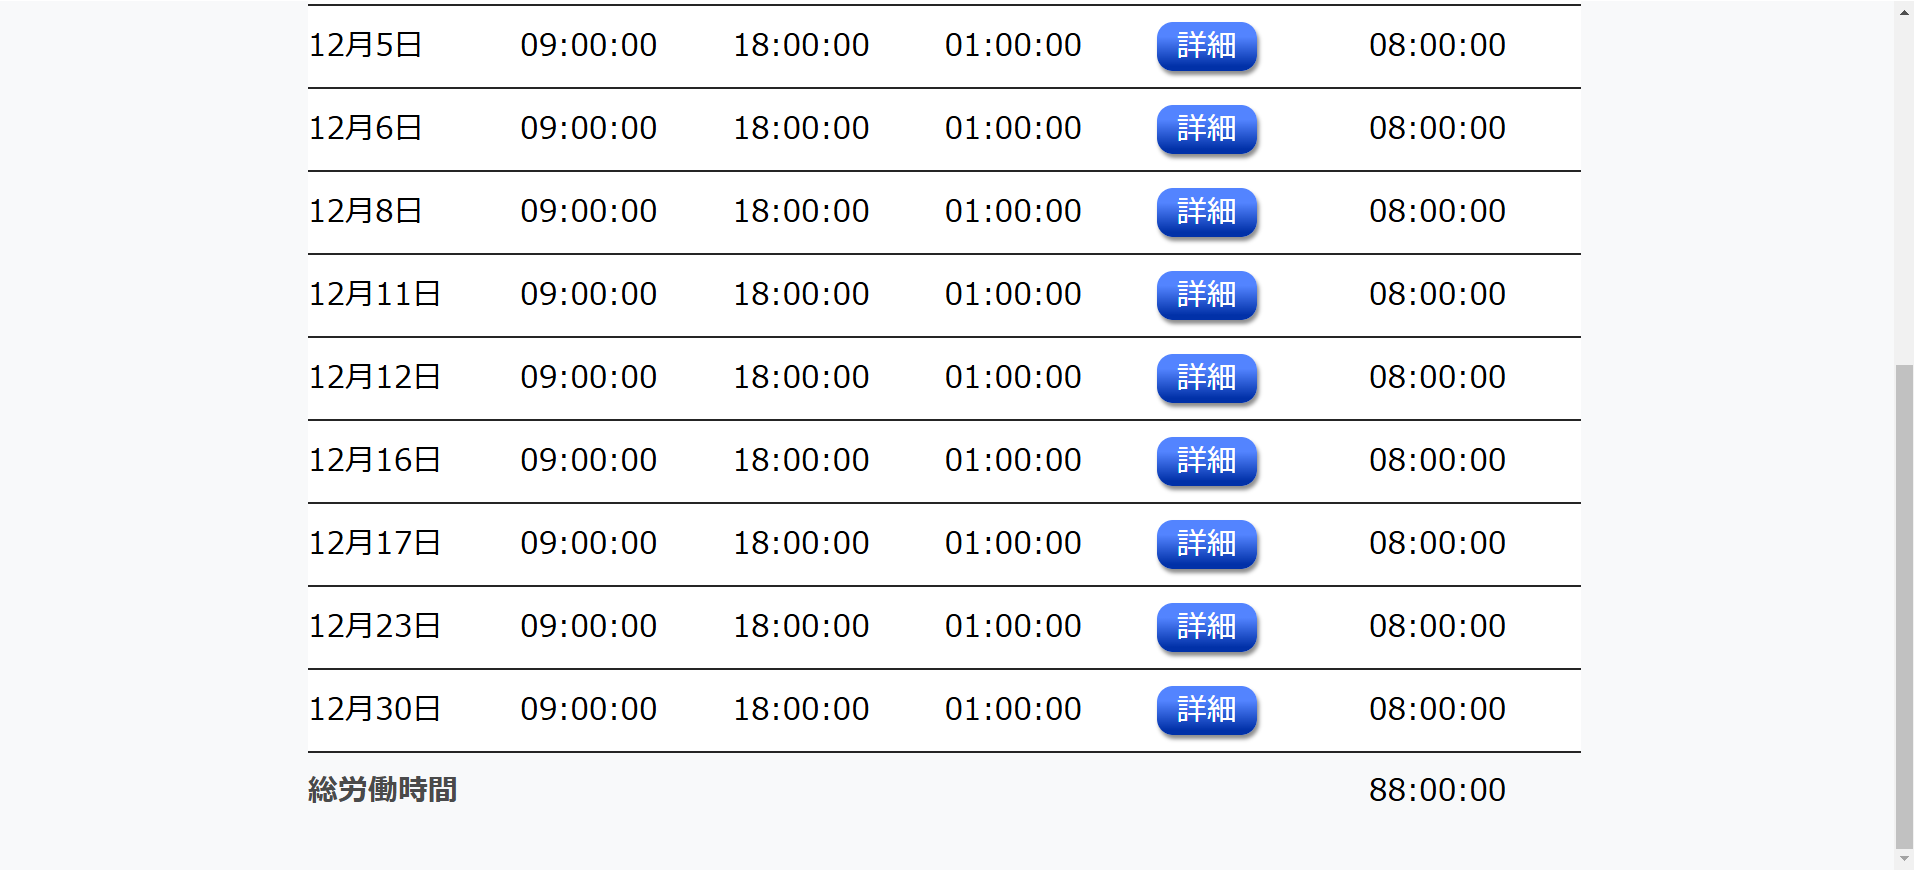
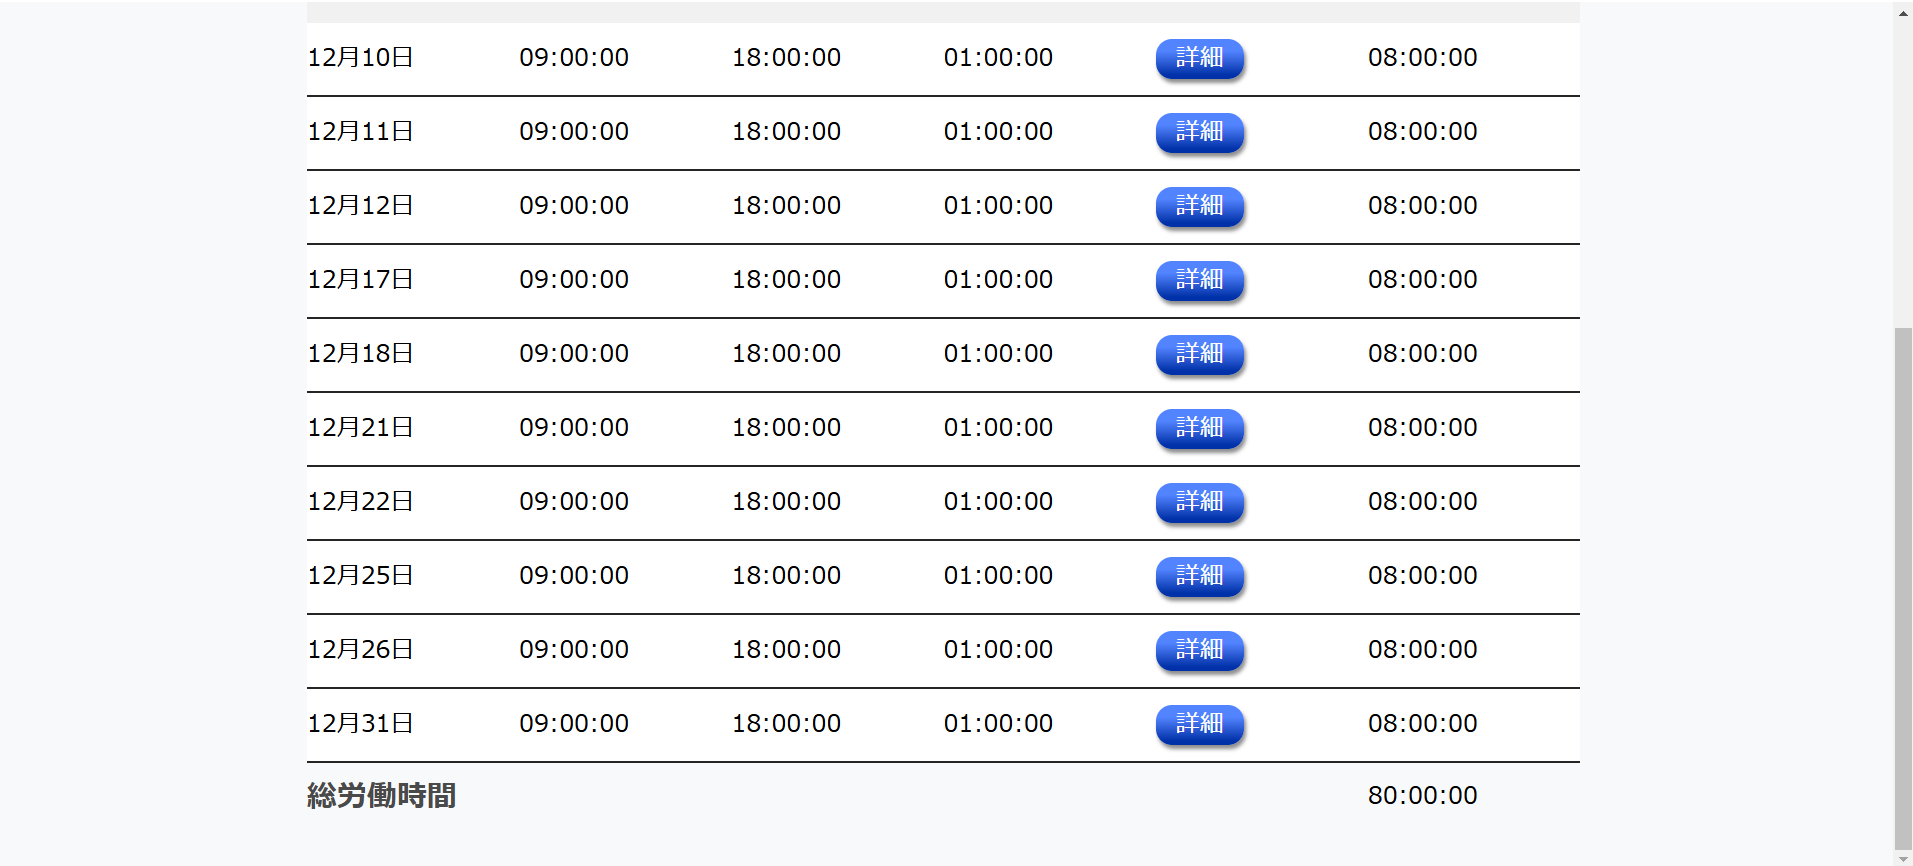
READMEの画像差し替え及び追加、内容修正

diff --git a/README.md b/README.md
@@ -17,11 +17,17 @@ https://github.com/basstuba/ams
 
 ## 作成した目的
 
-私が日本で働いていた時の勤怠管理の実務経験を踏まえ、どの年代のユーザーでも使いやすいシンプルな打刻画面と勤怠を管理するにあたって必要な機能を揃えた管理画面を持つ勤怠管理アプリを作成したいと思い作成しました。
+どなたでも簡単に操作できる勤怠管理アプリを提供したいという思いで作成しました。
+
+私が日本で働いていた時の勤怠管理の実務経験を踏まえ下記の2点を意識して作成しました。
+
+- どの年代のユーザーでも使いやすいシンプルな打刻画面
+
+- 管理者が簡単に扱え尚且つ管理に必要な機能を揃えた管理画面
 
 ## 機能一覧
 
-- アカウント作成機能
+### ユーザーが利用可能な機能
 
 - ログイン及びログアウト機能
 
@@ -29,11 +35,25 @@ https://github.com/basstuba/ams
 
    （出勤、退勤、休憩開始、休憩終了）
 
+### 管理者が利用可能な機能
+
+- ユーザーアカウント作成機能
+
+- ユーザーアカウント情報変更機能
+
+- インポート機能
+
+   （ユーザーデータを一括登録）
+
 - 日付別勤怠一覧表示機能
 
 - 個人別勤怠一覧表示機能
 
+- ユーザーアカウント一覧表示機能
+
 - ユーザーアカウント検索機能
+
+- 勤怠データ検索機能
 
 - ページネーション機能
 
@@ -51,9 +71,9 @@ https://github.com/basstuba/ams
 
 | 言語・フレームワーク・その他使用技術 | バージョン |
 | ------------------ | ----------|
-| Nuxt               | 2.18.1    |
+| Nuxt.js            | 2.18.1    |
 | Node.js            | 20.17.0   |
-| vue                | 2.7.10    |
+| vue.js             | 2.7.10    |
 | yarn               | 1.22.22   |
 | HTML               |           |
 | CSS                |           |
@@ -79,40 +99,48 @@ https://github.com/basstuba/ams
    にてアプリケーションのディレクトリへ移動。
 
 2. yarnをインストール
+
+   アプリケーションのディレクトリにて
    ```
    yarn install
    ```
    を実行。
 
 3. ローカルサーバーを起動
+
+   アプリケーションのディレクトリにて
    ```
    yarn dev
    ```
    を実行。
 
-**フロントエンドの環境構築は以上になります。バックエンドの環境構築が完了してDockerが起動しているのを確認後、下記のURLにアクセスするとアプリケーションをご利用いただけます。**
+**フロントエンドの環境構築は以上になります。バックエンドの環境構築が完了してDockerのamsコンテナが起動しているのを確認後、下記のURLにアクセスするとアプリケーションをご利用いただけます。**
 
 ## アプリケーション URL
 
 http://localhost:3000
 
-## 各種機能について
-
-### 新規登録画面
-
-![新規登録画面](readme_image/AmsRegisterPage.png)
-
-#### アカウント作成機能
-
-- お名前、メールアドレス、パスワードを入力し登録ボタンを押して作成します。
+## 各画面の機能について
 
 ### ログイン画面
 
 ![ログイン画面](readme_image/AmsLoginpage.png)
 
+> [!IMPORTANT]
+> **テスト用ユーザーアカウントの詳細は下記の通りです。**
+> - email :
+>   ```
+>   fdsa@fdsa.com
+>   ```
+> - password :
+>   ```
+>   fdsafdsa
+>   ```
+
 #### ログイン及びログアウト機能
 
-- メールアドレス、パスワードを入力しログインボタンを押してログインします。
+- メールアドレス・パスワードを入力しログインボタンを押してログインしてください。
+
 - ログイン後トップページ及び管理画面の右上にある**ログアウト**を押すとログアウトします。
 
 ### トップページ
@@ -124,7 +152,9 @@ http://localhost:3000
 #### 打刻機能
 
 - 勤務開始ボタンをクリックすると休憩開始ボタンと勤務終了ボタンが表示されます。休憩開始ボタンをクリックすると休憩終了ボタンが表示されます。
+
 - 勤務時間は一日に複数回の入力が可能です。早朝勤務して退勤後、夜間再度勤務のような変則勤務も対応可能です。
+
 - 休憩時間も一日に複数回の入力が可能です。拘束時間が長く休憩が複数回ある場合でも対応可能です。
 
 ### 管理画面
@@ -144,17 +174,43 @@ http://localhost:3000
 >   adminadmin
 >   ```
 
-- 下記の機能は管理画面の各ページよりご利用いただけます。
+管理画面の各ページより各機能をご利用いただけます。
 
-| 機能        | ページ     |
-| ------------------------ | ----------------------------------- |
-| 日付別勤怠一覧表示機能     | 日付別勤怠一覧                        |
-| 個人別勤怠一覧表示機能     | 個人別勤怠一覧の勤怠確認               |
-| ユーザーアカウント検索機能 | 個人別勤怠一覧                        |
-| ページネーション機能       | 個人別勤怠一覧                        |
-| エクスポート機能          | 日付別勤怠一覧と個人別勤怠一覧の勤怠確認 |
-| 打刻修正機能              | 個人別勤怠一覧の勤怠修正               |
-| 打刻追加機能              | 個人別勤怠一覧の勤怠追加               |
+- 日付別勤怠一覧ページ
+
+   - 日付別勤怠一覧表示機能
+
+   - エクスポート機能
+
+   - 勤怠データ検索機能
+
+- 個人別勤怠一覧ページ
+
+   - ユーザーアカウント一覧表示機能
+
+   - ユーザーアカウント検索機能
+
+   - 個人別勤怠一覧表示機能
+
+   - 勤怠データ検索機能
+
+   - 打刻修正機能
+
+   - 打刻追加機能
+
+   - エクスポート機能
+
+   - ページネーション機能
+
+- 従業員登録ページ
+
+   - ユーザーアカウント作成機能
+
+   - インポート機能
+
+- 従業員情報変更ページ
+
+   - ユーザーアカウント情報変更機能
 
 ### 日付別勤怠一覧ページ
 
@@ -163,19 +219,30 @@ http://localhost:3000
 #### 日付別勤怠一覧表示機能
 
 - 日付別勤怠一覧ページで日付別勤怠を表示します。デフォルトの日付は前日の日付となっています。
+
 - 日付の左にある矢印をクリックすると前日、右にある矢印をクリックすると翌日が表示されます。
 
 #### エクスポート機能
 
-- 日付別勤怠一覧ページと個人別勤怠一覧の勤怠確認ボタンで表示される月別勤怠一覧ページの右上にあるエクセルに出力ボタンを押すと、表示している勤怠一覧をエクセルデータとしてダウンロードします。
+- 日付別勤怠一覧ページの右上にある**エクセルに出力**ボタンを押すと、表示している勤怠一覧をエクセルデータとしてダウンロードします。
+
+#### 勤怠データ検索機能
+
+- 日付・社員区分・所属部門の3項目で検索することができます。
+
+- 日付の検索は2020年4月に労働基準法が改正され賃金請求権の消滅時効が5年に延長されたことを踏まえ、現在は2020年1月1日まで選択可能としています。
 
 ### 個人別勤怠一覧ページ
 
 ![個人別勤怠一覧](readme_image/AmsAllUserPage.png)
 
+#### ユーザーアカウント一覧表示機能
+
+- 個人別勤怠一覧ページにて登録済ユーザーアカウントの一覧を表示します。
+
 #### ユーザーアカウント検索機能
 
-- 個人別勤怠一覧ページにてアカウントを名前で検索することができます。
+- 個人別勤怠一覧ページにてユーザーアカウントを名前・社員番号・社員区分・所属部門の4項目で検索することができます。
 
 #### ページネーション機能
 
@@ -184,35 +251,151 @@ http://localhost:3000
 
 #### 個人別勤怠一覧表示機能
 
-- 個人別勤怠一覧の勤怠確認ボタンからページを移動し個人の勤怠を月別で一覧表示します。デフォルトの表示は今月となっています。
+- 個人別勤怠一覧ページの勤怠確認ボタンからページを移動し個人の勤怠を月別で一覧表示します。デフォルトの表示は今月となっています。
+
 - 表示されている月の左にある矢印をクリックすると前月、右にある矢印をクリックすると翌月が表示されます。
+
 - 勤怠の最終行に総労働時間が表示されます。
 
 ![月別勤怠一覧](readme_image/AmsMonthlyPage.png)
 
 ![月別勤怠一覧2](readme_image/AmsMonthlyLastPage.png)
 
+#### エクスポート機能
+
+- 個人別勤怠一覧ページの勤怠確認ボタンで移動したページの右上にある**エクセルに出力**ボタンを押すと、表示している勤怠一覧をエクセルデータとしてダウンロードします。
+
+#### 勤怠データ検索機能
+
+- 日付で検索することができます。
+
+- 日付の検索は2020年4月に労働基準法が改正され賃金請求権の消滅時効が5年に延長されたことを踏まえ、現在は2020年1月度まで選択可能としています。
+
 #### 打刻修正機能
 
 - 打刻間違いを修正する為の機能です。個人別勤怠一覧ページの勤怠修正ボタンからページを移動し打刻の修正を行えます。
-- ページを移動後修正したい日付を選択します。
+
+1. ページを移動後修正したい日付を選択します。
 
 ![打刻修正1](readme_image/AmsFixesBeforePage.png)
 
-- 表示された時間を修正して修正ボタンを押してください。
+2. 表示された時間を修正して修正ボタンを押してください。
 
 ![打刻修正2](readme_image/AmsFixesAfterPage.png)
 
 #### 打刻追加機能
 
 - 打刻忘れを修正する為の機能です。個人別勤怠一覧ページの勤怠追加ボタンからページを移動し打刻の追加を行えます。
+
 - 日付、出勤時間、退勤時間、休憩時間を入力して追加ボタンを押してください。
 
 ![打刻追加](readme_image/AmsAddPage.png)
 
+### 従業員登録ページ
+
+![登録方法選択](readme_image/AmsEmployeeRegistrationPage.png)
+
+- ユーザーアカウントの作成・管理の権限を管理者のみにしています。この運用により、アカウント情報の一元管理が可能となり、不正なアカウント作成や情報の漏洩を防止します。また、管理者が各ユーザーの登録情報を容易に把握・修正できる環境を提供します。
+
+- ユーザーアカウントの登録方法は1件づつ登録する**個別登録**とcsvファイルでまとめて登録する**一括登録**の2つの方法を選択可能です。
+
+#### ユーザーアカウント作成機能
+
+- 従業員登録方法選択の個別登録を押し、移動したページにてユーザーアカウントの作成を行えます。
+
+- 氏名・メールアドレス・パスワード・社員番号・社員区分・所属部門を入力して登録ボタンを押してください。
+
+> [!IMPORTANT]
+> - 社員番号は0を含む5桁の数字という設定になっていますので5桁の数字で入力してください。
+>
+> - 社員番号を重複しての使用はできません。
+>
+> - 各アカウントの社員番号は下記の通りとなっていますので下記の番号以外の番号を使用してください。
+>
+> | アカウント名              | 社員番号     |
+> | ------------------------ | ----------- |
+> | 管理者用アカウント        | 00000        |
+> | テスト用ユーザーアカウント | 00001        |
+> | ダミーデータのアカウント   | 00002~00051 |
+>
+> - 所属部門には"無し"という項目も用意しましたので所属部門という項目が不要な場合は"無し"を選択してください。
+
+![個別登録](readme_image/AmsIndividualPage.png)
+
+#### インポート機能
+
+- 従業員登録方法選択の一括登録を押し、移動したページにてcsvファイルを使用してアカウントの一括登録を行えます。
+
+- 登録したいアカウントデータのcsvファイルを選択して登録ボタンを押してください。
+
+> [!IMPORTANT]
+> csvファイルの作成方法は後述の"その他"に記載しています。
+
+![一括登録](readme_image/AmsBulkPage.png)
+
+### 従業員情報変更ページ
+
+![従業員情報変更1](readme_image/AmsInformationChangeBeforePage.png)
+
+#### ユーザーアカウント情報変更機能
+
+- 登録されているユーザーアカウントの情報を変更を行えます。
+
+- 変更したいユーザーアカウントの選択間違いを防止する為に各ユーザー固有の番号である社員番号で検索します。
+
+1. 変更したいユーザーアカウントの社員番号を入力して検索します。
+
+2. 変更したい項目を修正し変更ボタンを押してください。
+
+![従業員情報変更2](readme_image/AmsInformationChangeAfterPage.png)
+
 ## その他
 
-- 環境構築はフロントエンド、バックエンド共にlocalhostでの使用方法となります。
+### csvファイルの作成方法
+
+#### Excelで作成する場合
+
+![Excelシート](readme_image/AmsCsvSample.png)
+
+1. 1行目に画像の通り各項目の名称を記述してください。
+
+2. 社員番号の列を示す"D"を右クリックし"セルの書式設定"をクリック。続けて表示形式の分類で文字列を選択してOKを押してください。
+
+3. 2行目から各項目にユーザーの情報を記述してください。
+
+4. メニューバーにある"ファイル"をクリック。
+
+5. "名前を付けて保存"をクリック。
+
+6. 保存場所を選択。
+
+7. ファイル名を記入。
+
+8. ファイルの種類は"CSV UTF-8 （コンマ区切り）"を選択。
+
+9. 保存をクリックして完了です。
+
+#### Googleスプレッドシートで作成する場合
+
+- 作成用の雛形シートをご用意いたしましたので下記URLからご利用ください。雛形シートには10件のダミーデータを記載しています。
+
+- スプレッドシートURL
+
+   https://docs.google.com/spreadsheets/d/1OXB0O3aGBojU1kVIwLXo0tTojIeurTx32EYgkoB_GeE/edit?gid=0#gid=0
+
+- 追加で作成する場合
+
+   1. 1行目は各項目の名称となりますので、2行目から各項目にユーザーの情報を記述してください。
+
+   2. ユーザー情報の記述後メニューバーにある'ファイル'をクリック。
+
+   3. ダウンロードにカーソルを移動。
+
+   4. カンマ区切り形式（.csv）をクリックし、ダウンロードすると完了です。
+
+### 補足
+
+- 環境構築はフロントエンド、バックエンド共にローカルサーバーでの使用方法となります。
 
 - 打刻画面は携帯電話でも利用出来るようにレスポンシブデザインを設計していますが、管理画面はエクスポート機能がある為携帯電話での利用は想定していません。
 
